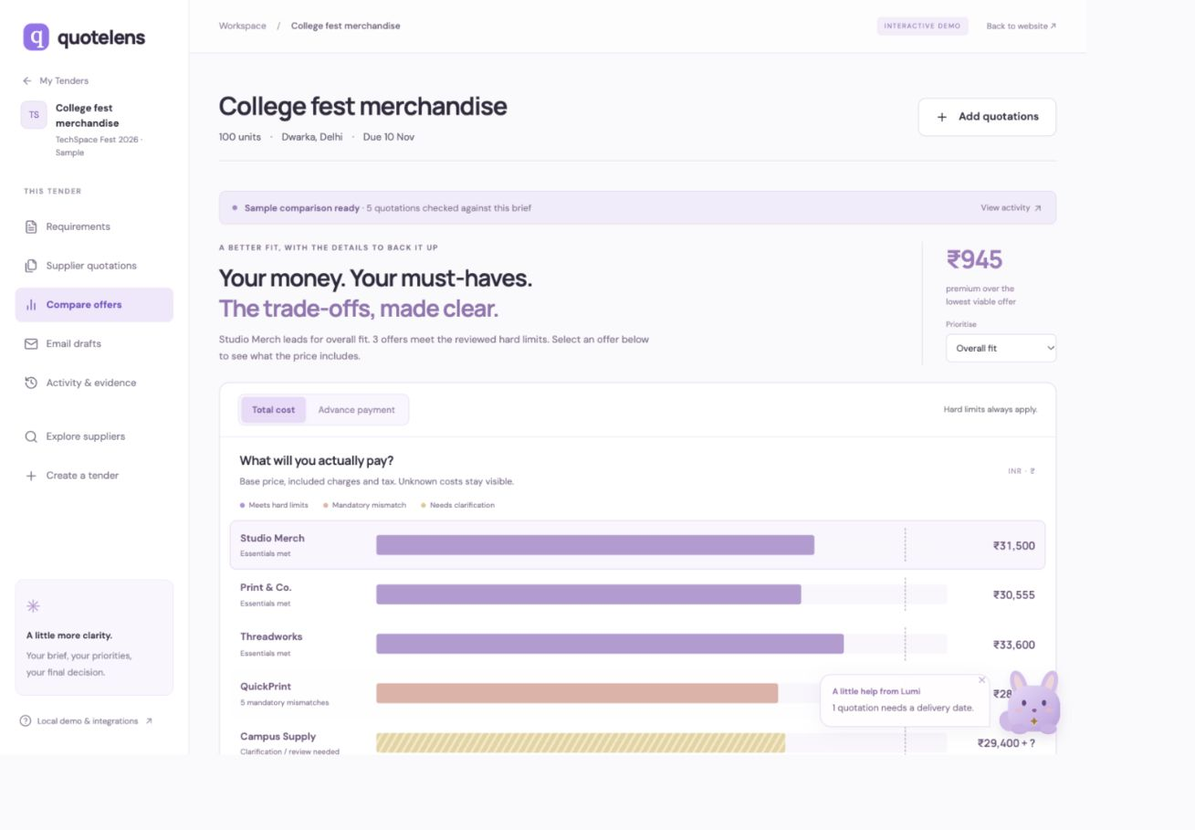
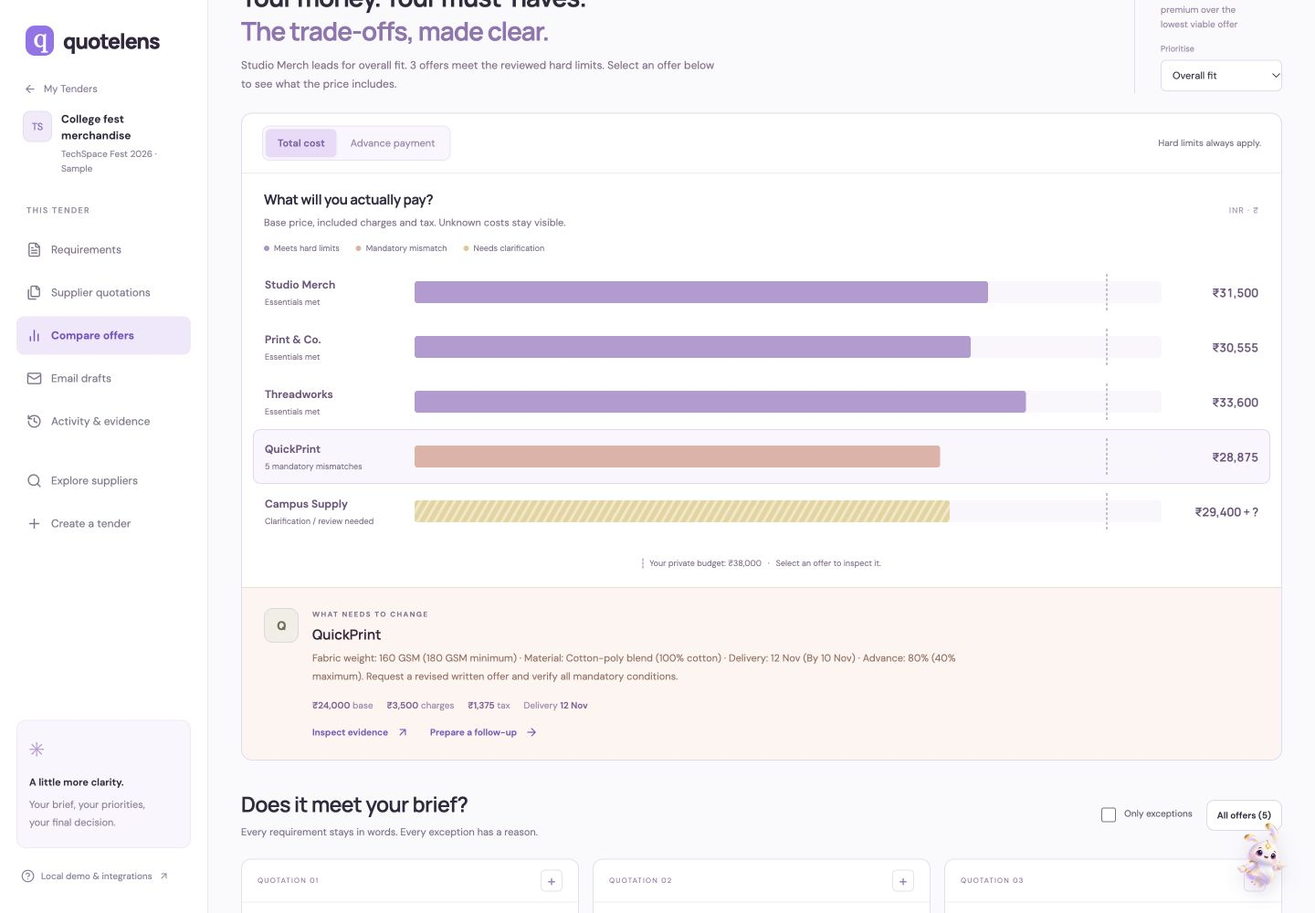
Polish QuoteLens landing, comparison, and Lumi

diff --git a/src/ClassicComparison.tsx b/src/ClassicComparison.tsx
@@ -6,4 +6,4 @@ import { Avatar, Badge, Button, Empty, Link, Status, path, useTender } from './u
 import { Evidence } from './Quotations';
 export default function ClassicComparison({id}:{id:string}){const {tender:t,update,notify}=useTender(id);const [metric,setMetric]=useState<'total'|'advance'>('total');const [selected,setSelected]=useState('studio');const [priority,setPriority]=useState<Priority>('fit');const [all,setAll]=useState(false);const [exceptions,setExceptions]=useState(false);const [evidence,setEvidence]=useState<Offer|null>(null);if(!t)return null;if(!t.offers.length)return <Empty title="Bring in your first quotation." description="Your comparison will start with the offers in this tender. Add a PDF, then review its figures and terms."><Link className="button primary" to={path(id,'quotes')}>Add a quotation <ArrowRight size={16}/></Link></Empty>;
 const ordered=ranked(t,priority),viable=ordered.filter(o=>assessment(o,t.brief).viable),chosen=t.offers.find(o=>o.id===selected)||ordered[0],a=assessment(chosen,t.brief),cheapest=ranked(t,'price').find(o=>assessment(o,t.brief).viable),best=viable[0],max=metric==='total'?Math.max(...t.offers.map(o=>cost(o).total),t.brief.privateBudget||0)*1.08:100,limit=metric==='total'?t.brief.privateBudget:t.brief.maxAdvance;const visible=all?ordered:viable.slice(0,3);const premium=best&&cheapest?cost(best).total-cost(cheapest).total:0;
-return <><div className="classic-agent-strip"><span className="classic-ready-dot"/><span><strong>{t.sample?'Sample comparison ready':'Your comparison'}</strong> · {t.offers.length} quotations checked against this brief</span><Link to={path(id,'activity')}>View activity <ArrowUpRight size={13}/></Link></div><div className="classic-decision-heading"><div><span className="eyebrow">A BETTER FIT, WITH THE DETAILS TO BACK IT UP</span><h2>Your money. Your must-haves.<br/><span>The trade-offs, made clear.</span></h2><p>{best?`${best.name} leads for ${priority==='fit'?'overall fit':priority==='price'?'lowest evaluated total':priority==='speed'?'earlier delivery':'less upfront payment'}. ${viable.length} offers meet the reviewed hard limits. Select an offer below to see what the price includes.`:'The open questions need resolving before any offer is ready to recommend.'}</p></div><div className="classic-decision-stamp"><strong>{premium>0?money(premium):String(viable.length).padStart(2,'0')}</strong><span>{premium>0?<>premium over the<br/>lowest viable offer</>:<>viable offers,<br/>with hard limits met</>}</span><label>Prioritise<select aria-label="Comparison priority" value={priority} onChange={e=>setPriority(e.target.value as Priority)}><option value="fit">Overall fit</option><option value="price">Lowest total</option><option value="speed">Earlier delivery</option><option value="cash">Less upfront</option></select></label></div></div><section className="classic-chart-panel"><div className="classic-chart-toolbar"><div className="classic-segment" role="group" aria-label="Comparison metric"><button onClick={()=>setMetric('total')} aria-pressed={metric==='total'} className={metric==='total'?'active':''}>Total cost</button><button onClick={()=>setMetric('advance')} aria-pressed={metric==='advance'} className={metric==='advance'?'active':''}>Advance payment</button></div><span className="small muted">Hard limits always apply.</span></div><div className="classic-chart-title"><div><h3>{metric==='total'?'What will you actually pay?':'How much is due upfront?'}</h3><p>{metric==='total'?'Base price, included charges and tax. Unknown costs stay visible.':'Advance percentage, with the exact rupee amount beside it.'}</p></div><span>{metric==='total'?'INR · ₹':'PERCENT · %'}</span></div><div className="classic-chart-key"><span><i/>Meets hard limits</span><span><i/>Mandatory mismatch</span><span><i/>Needs clarification</span></div><div className="classic-bar-chart" role="group" aria-label="Supplier offer comparison">{t.offers.map(o=>{const a=assessment(o,t.brief),c=cost(o),value=metric==='total'?c.total:o.advance??0;return <button key={o.id} className={`classic-bar-row ${chosen.id===o.id?'selected':''}`} aria-pressed={chosen.id===o.id} onClick={()=>setSelected(o.id)}><span className="classic-bar-label"><strong>{o.name||'Unnamed supplier'}</strong><small>{a.viable?'Essentials met':a.mismatches.length?`${a.mismatches.length} mandatory mismatches`:'Clarification / review needed'}</small></span><span className="classic-bar-space">{limit!==null&&<span className="classic-bar-limit" style={{left:`${limit/max*100}%`}}/>}<motion.span initial={false} animate={{width:`${Math.min(value/max*100,100)}%`}} transition={{duration:.25}} className={`classic-bar-fill ${a.mismatches.length?'fail':a.viable?'':'unknown'}`}/></span><span className="classic-bar-value"><strong>{metric==='total'?money(c.total)+(c.complete?'':' + ?'):o.advance===null?'Not stated':`${o.advance}%`}</strong>{metric==='advance'&&<small>{o.advance===null?'Amount unknown':money(c.advance)+(c.complete?'':' + ?')}</small>}</span></button>})}</div><div className="classic-chart-foot"><span className="classic-limit-key"/>{limit===null?'No hard limit entered':`Your ${metric==='total'?'private budget':'advance limit'}: ${metric==='total'?money(limit):`${limit}%`}`} <span>·</span> Select an offer to inspect it.</div><div className={`classic-selected-insight ${a.mismatches.length?'has-mismatch':''}`}><Avatar name={chosen.name} id={chosen.supplierId}/><div><span className="eyebrow">{a.viable?'VALUE, IN CONTEXT':'WHAT NEEDS TO CHANGE'}</span><h3>{chosen.name||'Unnamed supplier'}</h3><p>{a.mismatches.length?`${a.mismatches.filter(c=>c.label!=='Other mandatory conditions').map(c=>`${c.label}: ${c.value} (${c.requirement.replace(/\.$/,'')})`).join(' · ')}. Request a revised written offer and verify all mandatory conditions.`:!a.viable?'Confirm missing delivery or price details and finish the buyer review before treating this as a viable offer.':chosen.id===cheapest?.id?'The lowest evaluated total among viable offers. Review the accepted compromises below before deciding.':'Meets all checked hard limits. Compare the total, delivery date, advance and packaging against the other viable options.'}</p><div className="classic-insight-facts"><span><strong>{money(cost(chosen).base)}</strong> base</span><span><strong>{money(cost(chosen).extras)}</strong> {cost(chosen).complete?'charges':'known charges'}</span><span><strong>{chosen.tax===null?'Unknown':money(cost(chosen).tax)}</strong> tax</span><span>Delivery <strong>{date(chosen.date)}</strong></span></div><div className="actions"><button className="text-link" onClick={()=>setEvidence(chosen)}>Inspect evidence <ArrowUpRight size={14}/></button><Link className="text-link" to={path(id,`drafts/${chosen.id}`)}>Prepare a follow-up <ArrowRight size={14}/></Link></div></div></div></section><div className="section-title classic-checklist-heading"><div><h2>Does it meet your brief?</h2><p>Every requirement stays in words. Every exception has a reason.</p></div><div className="classic-checklist-tools"><label className="check-field"><input type="checkbox" checked={exceptions} onChange={e=>setExceptions(e.target.checked)}/>Only exceptions</label><Button variant="secondary" onClick={()=>setAll(!all)}>{all?'Top viable offers':`All offers (${t.offers.length})`}</Button></div></div><div className="classic-requirement-grid">{(visible.length?visible:ordered).map((o,i)=>{const a=assessment(o,t.brief),saved=t.shortlist.includes(o.id),checks=a.checks.filter(c=>!exceptions||c.state!=='met');return <article className={`classic-requirement-card ${a.mismatches.length?'mismatch':''}`} key={o.id}><div className="classic-company-ribbon"><span>QUOTATION {String(i+1).padStart(2,'0')}</span><button onClick={()=>{update(t=>({...t,shortlist:saved?t.shortlist.filter(x=>x!==o.id):[...t.shortlist,o.id]}));notify(saved?'Removed from shortlist.':'Added to this tender’s shortlist.');}} aria-label={`${saved?'Remove':'Add'} ${o.name} ${saved?'from':'to'} shortlist`}>{saved?<Check size={14}/>:'+'}</button></div><div className="classic-company-head"><Avatar name={o.name} id={o.supplierId}/><div><h3>{o.name||'Unnamed supplier'}</h3><Badge tone={a.viable?'sample':a.mismatches.length?'red':'amber'}>{a.viable?'Viable offer':a.mismatches.length?'Needs revision':'Needs clarification'}</Badge></div></div><div className="classic-company-context"><span>{o.business||'Company type not recorded'}</span><span>{o.workedBefore?'Worked together before':'Relationship not recorded'}</span>{o.supplierId&&<Link to={`supplier/${o.supplierId}`}>View portfolio ↗</Link>}</div>{checks.map(c=><div className="classic-requirement-check" key={c.label}><div><strong>{c.label}</strong><Status state={c.state} short/></div><p>{c.value}</p><small>{c.requirement}</small></div>)}{!checks.length&&<p className="classic-all-clear"><Check size={14}/> No exceptions for this offer.</p>}<div className="classic-card-bottom"><strong>{money(a.total.total)}{!a.total.complete?' + unknowns':''}</strong><span>{a.total.complete?'Evaluated total':'Known subtotal'}</span><Link className="button secondary" to={path(id,`drafts/${o.id}`)}>Prepare next move <ArrowUpRight size={14}/></Link></div></article>})}</div><p className="comparison-footnote">Rules check structured fields. Free-text conditions require buyer verification. Priorities never relax a mandatory limit.</p>{evidence&&<Evidence o={evidence} onClose={()=>setEvidence(null)}/>}</>}
+return <><div className="classic-agent-strip"><span className="classic-ready-dot"/><span><strong>{t.sample?'Sample comparison ready':'Your comparison'}</strong> · {t.offers.length} quotations in view · {viable.length} viable after review</span><Link to={path(id,'activity')}>View activity <ArrowUpRight size={13}/></Link></div><div className="classic-decision-heading"><div><span className="eyebrow">A BETTER FIT, WITH THE DETAILS TO BACK IT UP</span><h2>Your money. Your must-haves.<br/><span>The trade-offs, made clear.</span></h2><p>{best?`${best.name} leads for ${priority==='fit'?'overall fit':priority==='price'?'lowest evaluated total':priority==='speed'?'earlier delivery':'less upfront payment'}. ${viable.length} offers meet the reviewed hard limits. Select an offer below to see what the price includes.`:'The open questions need resolving before any offer is ready to recommend.'}</p></div><div className="classic-decision-stamp"><strong>{premium>0?money(premium):String(viable.length).padStart(2,'0')}</strong><span>{premium>0?<>premium over the<br/>lowest viable offer</>:<>viable offers,<br/>with hard limits met</>}</span><label>Prioritise<select aria-label="Comparison priority" value={priority} onChange={e=>setPriority(e.target.value as Priority)}><option value="fit">Overall fit</option><option value="price">Lowest total</option><option value="speed">Earlier delivery</option><option value="cash">Less upfront</option></select></label></div></div><section className="classic-chart-panel"><div className="classic-chart-toolbar"><div className="classic-segment" role="group" aria-label="Comparison metric"><button onClick={()=>setMetric('total')} aria-pressed={metric==='total'} className={metric==='total'?'active':''}>Total cost</button><button onClick={()=>setMetric('advance')} aria-pressed={metric==='advance'} className={metric==='advance'?'active':''}>Advance payment</button></div><span className="small muted">Hard limits always apply.</span></div><div className="classic-chart-title"><div><h3>{metric==='total'?'What will you actually pay?':'How much is due upfront?'}</h3><p>{metric==='total'?'Base price, included charges and tax. Unknown costs stay visible.':'Advance percentage, with the exact rupee amount beside it.'}</p></div><span>{metric==='total'?'INR · ₹':'PERCENT · %'}</span></div><div className="classic-chart-key"><span><i/>Meets hard limits</span><span><i/>Mandatory mismatch</span><span><i/>Needs clarification</span></div><div className="classic-bar-chart" role="group" aria-label="Supplier offer comparison">{t.offers.map(o=>{const a=assessment(o,t.brief),c=cost(o),value=metric==='total'?c.total:o.advance??0;return <button key={o.id} className={`classic-bar-row ${chosen.id===o.id?'selected':''}`} aria-pressed={chosen.id===o.id} onClick={()=>setSelected(o.id)}><span className="classic-bar-label"><strong>{o.name||'Unnamed supplier'}</strong><small>{a.viable?'Essentials met':a.mismatches.length?`${a.mismatches.length} mandatory mismatches`:'Clarification / review needed'}</small></span><span className="classic-bar-space">{limit!==null&&<span className="classic-bar-limit" style={{left:`${limit/max*100}%`}}/>}<motion.span initial={false} animate={{width:`${Math.min(value/max*100,100)}%`}} transition={{duration:.25}} className={`classic-bar-fill ${a.mismatches.length?'fail':a.viable?'':'unknown'}`}/></span><span className="classic-bar-value"><strong>{metric==='total'?money(c.total)+(c.complete?'':' + ?'):o.advance===null?'Not stated':`${o.advance}%`}</strong>{metric==='advance'&&<small>{o.advance===null?'Amount unknown':money(c.advance)+(c.complete?'':' + ?')}</small>}</span></button>})}</div><div className="classic-chart-foot"><span className="classic-limit-key"/>{limit===null?'No hard limit entered':`Your ${metric==='total'?'private budget':'advance limit'}: ${metric==='total'?money(limit):`${limit}%`}`} <span>·</span> Select an offer to inspect it.</div><div className={`classic-selected-insight ${a.mismatches.length?'has-mismatch':''}`}><Avatar name={chosen.name} id={chosen.supplierId}/><div><span className="eyebrow">{a.viable?'VALUE, IN CONTEXT':'WHAT NEEDS TO CHANGE'}</span><h3>{chosen.name||'Unnamed supplier'}</h3><p>{a.mismatches.length?`${a.mismatches.filter(c=>c.label!=='Other mandatory conditions').map(c=>`${c.label}: ${c.value} (${c.requirement.replace(/\.$/,'')})`).join(' · ')}. Request a revised written offer and verify all mandatory conditions.`:!a.viable?'Confirm missing delivery or price details and finish the buyer review before treating this as a viable offer.':chosen.id===cheapest?.id?'The lowest evaluated total among viable offers. Review the accepted compromises below before deciding.':'Meets all checked hard limits. Compare the total, delivery date, advance and packaging against the other viable options.'}</p><div className="classic-insight-facts"><span><strong>{money(cost(chosen).base)}</strong> base</span><span><strong>{money(cost(chosen).extras)}</strong> {cost(chosen).complete?'charges':'known charges'}</span><span><strong>{chosen.tax===null?'Unknown':money(cost(chosen).tax)}</strong> tax</span><span>Delivery <strong>{date(chosen.date)}</strong></span></div><div className="actions"><button className="text-link" onClick={()=>setEvidence(chosen)}>Inspect evidence <ArrowUpRight size={14}/></button><Link className="text-link" to={path(id,`drafts/${chosen.id}`)}>Prepare a follow-up <ArrowRight size={14}/></Link></div></div></div></section><div className="section-title classic-checklist-heading"><div><h2>Does it meet your brief?</h2><p>Every requirement stays in words. Every exception has a reason.</p></div><div className="classic-checklist-tools"><label className="check-field"><input type="checkbox" checked={exceptions} onChange={e=>setExceptions(e.target.checked)}/>Only exceptions</label><Button variant="secondary" onClick={()=>setAll(!all)}>{all?'Top viable offers':`All offers (${t.offers.length})`}</Button></div></div><div className="classic-requirement-grid">{(visible.length?visible:ordered).map((o,i)=>{const a=assessment(o,t.brief),saved=t.shortlist.includes(o.id),checks=a.checks.filter(c=>!exceptions||c.state!=='met');return <article className={`classic-requirement-card ${a.mismatches.length?'mismatch':''}`} key={o.id}><div className="classic-company-ribbon"><span>QUOTATION {String(i+1).padStart(2,'0')}</span><button onClick={()=>{update(t=>({...t,shortlist:saved?t.shortlist.filter(x=>x!==o.id):[...t.shortlist,o.id]}));notify(saved?'Removed from shortlist.':'Added to this tender’s shortlist.');}} aria-label={`${saved?'Remove':'Add'} ${o.name} ${saved?'from':'to'} shortlist`}>{saved?<Check size={14}/>:'+'}</button></div><div className="classic-company-head"><Avatar name={o.name} id={o.supplierId}/><div><h3>{o.name||'Unnamed supplier'}</h3><Badge tone={a.viable?'sample':a.mismatches.length?'red':'amber'}>{a.viable?'Viable offer':a.mismatches.length?'Needs revision':'Needs clarification'}</Badge></div></div><div className="classic-company-context"><span>{o.business||'Company type not recorded'}</span><span>{o.workedBefore?'Worked together before':'Relationship not recorded'}</span>{o.supplierId&&<Link to={`supplier/${o.supplierId}`}>View portfolio ↗</Link>}</div>{checks.map(c=><div className="classic-requirement-check" key={c.label}><div><strong>{c.label}</strong><Status state={c.state} short/></div><p>{c.value}</p><small>{c.requirement}</small></div>)}{!checks.length&&<p className="classic-all-clear"><Check size={14}/> No exceptions for this offer.</p>}<div className="classic-card-bottom"><strong>{money(a.total.total)}{!a.total.complete?' + unknowns':''}</strong><span>{a.total.complete?'Evaluated total':'Known subtotal'}</span><Link className="button secondary" to={path(id,`drafts/${o.id}`)}>Prepare next move <ArrowUpRight size={14}/></Link></div></article>})}</div><p className="comparison-footnote">Rules check structured fields. Free-text conditions require buyer verification. Priorities never relax a mandatory limit.</p>{evidence&&<Evidence o={evidence} onClose={()=>setEvidence(null)}/>}</>}

diff --git a/src/Lumi.tsx b/src/Lumi.tsx
@@ -3,8 +3,8 @@ import { motion, AnimatePresence } from 'motion/react';
 import { ArrowUp, ArrowRight, X, Minus, Sparkles } from 'lucide-react';
 import { assessment, cost, money, ranked, type Tender } from './domain';
 import { path, useApp } from './ui';
-export function LumiCharacter(){return <span className="classic-lumi-character" aria-hidden="true"><span className="lumi-pet"><i className="pet-ear left"/><i className="pet-ear right"/><i className="pet-tail"/><span className="pet-body"><span className="pet-face"><i className="pet-eye"/><i className="pet-eye"/><i className="pet-nose"/><i className="pet-blush left"/><i className="pet-blush right"/></span><i className="pet-paw left"/><i className="pet-paw right"/><span className="pet-badge">✦</span></span></span></span>}
+export function LumiCharacter(){return <span className="classic-lumi-character" aria-hidden="true"><img className="lumi-pet-image" src="/lumi-v3-refined.png" alt="" draggable="false"/></span>}
 function line(t?:Tender){if(!t)return 'A little perspective goes a long way.';if(!t.offers.length)return 'Your brief is ready. Let’s bring in an offer.';const unclear=t.offers.filter(o=>!o.date);if(unclear.length)return `${unclear.length} ${unclear.length===1?'quotation needs a':'quotations need'} delivery date.`;const valid=ranked(t).filter(o=>assessment(o,t.brief).viable);return valid.length?`You have ${valid.length} viable offers to consider.`:'Let’s resolve the open questions first.';}
-export default function Lumi({tender:t,route}:{tender?:Tender;route:string}){const {go}=useApp();const [open,setOpen]=useState(false);const [dismissed,setDismissed]=useState(false);const [minimal,setMinimal]=useState(false);const [question,setQuestion]=useState('');const [messages,setMessages]=useState<{role:'user'|'lumi';text:string}[]>([]);const [busy,setBusy]=useState(false);const timer=useRef<ReturnType<typeof setTimeout>|undefined>(undefined);const input=useRef<HTMLInputElement>(null);const conversation=useRef<HTMLDivElement>(null);useEffect(()=>{setMessages([]);setQuestion('');setBusy(false);clearTimeout(timer.current);},[t?.id]);useEffect(()=>()=>clearTimeout(timer.current),[]);useEffect(()=>{if(open)input.current?.focus()},[open]);useEffect(()=>{conversation.current?.scrollTo({top:conversation.current.scrollHeight,behavior:'smooth'})},[messages,busy]);function answer(q:string){if(!t)return 'Start by creating a tender, or open the sample to see five offers compared. You can also explore supplier portfolios and prepare an invitation. I’m a guided demo companion; live AI is not connected.';if(!t.offers.length)return `Your tender “${t.brief.title}” has no quotations yet. Add a supplier PDF and verify its figures. I’ll help you understand the deterministic checks once an offer is entered.`;const best=ranked(t).find(o=>assessment(o,t.brief).viable);const cheap=[...t.offers].sort((a,b)=>cost(a).total-cost(b).total)[0];const a=assessment(cheap,t.brief);if(/cheap|low|price|cost|charge/.test(q.toLowerCase()))return `${cheap.name} has the lowest known total: ${money(cost(cheap).total)}${cost(cheap).complete?'':', with unknown charges remaining'}. ${a.mismatches.length?`But ${a.mismatches.map(c=>`${c.label.toLowerCase()} (${c.value})`).join(', ')} fail the brief. It needs a revised offer.`:'Check its required scope and any acceptable compromises.'}${best&&best.id!==cheap.id?` ${best.name} is viable at ${money(cost(best).total)}.`:''}`;if(/budget/.test(q.toLowerCase()))return `Your private maximum is ${money(t.brief.privateBudget)}. It stays out of generated supplier drafts. ${t.brief.disclose?`You chose to share the range ${t.brief.range}.`:'You have not chosen to disclose a price range.'}`;if(/next|missing|deliver|ask/.test(q.toLowerCase())){const missing=t.offers.filter(o=>!assessment(o,t.brief).viable);return missing.length?`${missing.map(o=>{const a=assessment(o,t.brief);return `${o.name}: ${a.mismatches.length?'revise '+a.mismatches.map(c=>c.label.toLowerCase()).join(', '):'confirm missing details and review the offer'}`}).join('. ')}. Open a tailored follow-up in Drafts to ask for a written response.`:'Your reviewed offers meet the checks. Compare priorities, inspect evidence and confirm final scope in writing before deciding.';}return best?`${best.name} is the starting recommendation because it meets the checked hard limits with a complete reviewed cost of ${money(cost(best).total)}. Overall fit first minimises compromises, then considers price. Try “Lowest total” or “Earlier delivery” to explore alternatives. This is a transparent rule-based demo, not a live AI assessment.`:'No offer is ready to recommend. Missing details, failed hard limits, incomplete costs or unreviewed records must be resolved first. I can explain price, budget or next steps from this tender’s entered data.';}
+export default function Lumi({tender:t,route}:{tender?:Tender;route:string}){const {go}=useApp();const [open,setOpen]=useState(false);const [dismissed,setDismissed]=useState(false);const [minimal,setMinimal]=useState(false);const [question,setQuestion]=useState('');const [messages,setMessages]=useState<{role:'user'|'lumi';text:string}[]>([]);const [busy,setBusy]=useState(false);const timer=useRef<ReturnType<typeof setTimeout>|undefined>(undefined);const input=useRef<HTMLInputElement>(null);const conversation=useRef<HTMLDivElement>(null);useEffect(()=>{setMessages([]);setQuestion('');setBusy(false);clearTimeout(timer.current);},[t?.id]);useEffect(()=>{setMinimal(false);const hintTimer=setTimeout(()=>setMinimal(true),9000);return()=>clearTimeout(hintTimer)},[route]);useEffect(()=>()=>clearTimeout(timer.current),[]);useEffect(()=>{if(open)input.current?.focus()},[open]);useEffect(()=>{conversation.current?.scrollTo({top:conversation.current.scrollHeight,behavior:'smooth'})},[messages,busy]);function answer(q:string){if(!t)return 'Start by creating a tender, or open the sample to see five offers compared. You can also explore supplier portfolios and prepare an invitation. I’m a guided demo companion; live AI is not connected.';if(!t.offers.length)return `Your tender “${t.brief.title}” has no quotations yet. Add a supplier PDF and verify its figures. I’ll help you understand the deterministic checks once an offer is entered.`;const best=ranked(t).find(o=>assessment(o,t.brief).viable);const cheap=[...t.offers].sort((a,b)=>cost(a).total-cost(b).total)[0];const a=assessment(cheap,t.brief);if(/cheap|low|price|cost|charge/.test(q.toLowerCase()))return `${cheap.name} has the lowest known total: ${money(cost(cheap).total)}${cost(cheap).complete?'':', with unknown charges remaining'}. ${a.mismatches.length?`But ${a.mismatches.map(c=>`${c.label.toLowerCase()} (${c.value})`).join(', ')} fail the brief. It needs a revised offer.`:'Check its required scope and any acceptable compromises.'}${best&&best.id!==cheap.id?` ${best.name} is viable at ${money(cost(best).total)}.`:''}`;if(/budget/.test(q.toLowerCase()))return `Your private maximum is ${money(t.brief.privateBudget)}. It stays out of generated supplier drafts. ${t.brief.disclose?`You chose to share the range ${t.brief.range}.`:'You have not chosen to disclose a price range.'}`;if(/next|missing|deliver|ask/.test(q.toLowerCase())){const missing=t.offers.filter(o=>!assessment(o,t.brief).viable);return missing.length?`${missing.map(o=>{const a=assessment(o,t.brief);return `${o.name}: ${a.mismatches.length?'revise '+a.mismatches.map(c=>c.label.toLowerCase()).join(', '):'confirm missing details and review the offer'}`}).join('. ')}. Open a tailored follow-up in Drafts to ask for a written response.`:'Your reviewed offers meet the checks. Compare priorities, inspect evidence and confirm final scope in writing before deciding.';}return best?`${best.name} is the starting recommendation because it meets the checked hard limits with a complete reviewed cost of ${money(cost(best).total)}. Overall fit first minimises compromises, then considers price. Try “Lowest total” or “Earlier delivery” to explore alternatives. This is a transparent rule-based demo, not a live AI assessment.`:'No offer is ready to recommend. Missing details, failed hard limits, incomplete costs or unreviewed records must be resolved first. I can explain price, budget or next steps from this tender’s entered data.';}
 function ask(q:string){if(!q.trim()||busy)return;setMessages(m=>[...m,{role:'user',text:q.trim()}]);setQuestion('');setBusy(true);timer.current=setTimeout(()=>{setMessages(m=>[...m,{role:'lumi',text:answer(q)}]);setBusy(false)},400);}
-if(dismissed)return <button className="lumi-reopen" onClick={()=>{setDismissed(false);setOpen(true)}} aria-label="Reopen Lumi assistant"><Sparkles size={18}/></button>;return <div className={`lumi-position ${open?'is-open':''}`}><AnimatePresence mode="wait">{open?<motion.section key="panel" layoutId="lumi-shell" initial={{opacity:0,scale:.95}} animate={{opacity:1,scale:1}} exit={{opacity:0,scale:.95}} transition={{duration:.2}} className="lumi-panel" aria-label="Lumi assistant"><header><LumiCharacter/><div><strong>Lumi</strong><span>A little perspective, right here.</span></div><button className="icon-button" aria-label="Minimize Lumi" onClick={()=>setOpen(false)}><Minus size={17}/></button><button className="icon-button" aria-label="Dismiss Lumi" onClick={()=>{setOpen(false);setDismissed(true)}}><X size={17}/></button></header><div className="lumi-demo-label">GUIDED DEMO · USING THIS TENDER’S DATA</div><div className="lumi-conversation" ref={conversation}><div className="lumi-message lumi">{line(t)} {t?'What would help you make the next move?':'I can help you find your way around QuoteLens.'}</div>{messages.map((m,i)=><div className={`lumi-message ${m.role}`} key={i}>{m.text}</div>)}{busy&&<div className="lumi-message lumi" role="status">Checking the entered details<span className="loading-dots">…</span></div>}{!messages.length&&<div className="lumi-prompts">{(t?['Why this recommendation?','Why not the cheapest?','What should I ask next?']:['How do I start?']).map(q=><button onClick={()=>ask(q)} key={q}>{q}<ArrowRight size={13}/></button>)}</div>}</div>{t&&<div className="lumi-next-actions"><button onClick={()=>{go(path(t.id,'compare'));setOpen(false)}}>Comparison ↗</button><button onClick={()=>{go(path(t.id,'activity'));setOpen(false)}}>Activity & evidence ↗</button></div>}<form onSubmit={(e:FormEvent)=>{e.preventDefault();ask(question)}}><input ref={input} aria-label="Ask Lumi about this tender" placeholder="Ask about cost, fit, or next steps…" value={question} onChange={e=>setQuestion(e.target.value)} onKeyDown={e=>{if(e.key==='Escape')setOpen(false)}}/><button type="submit" aria-label="Send question to Lumi" disabled={!question.trim()||busy}><ArrowUp size={17}/></button></form></motion.section>:<motion.div key="closed" layoutId="lumi-shell" className={`lumi-closed ${minimal?'minimal':''}`} transition={{duration:.2}}><button className="lumi-trigger" onClick={()=>setOpen(true)} aria-label="Open Lumi assistant"><LumiCharacter/>{!minimal&&<span><strong>A little help from Lumi</strong><small>{line(t)}</small></span>}</button>{!minimal&&<button className="lumi-minimize" aria-label="Minimize Lumi hint" onClick={()=>setMinimal(true)}><X size={12}/></button>}</motion.div>}</AnimatePresence></div>}
+if(dismissed)return <button className="lumi-reopen" onClick={()=>{setDismissed(false);setOpen(true)}} aria-label="Reopen Lumi assistant"><Sparkles size={18}/></button>;return <div className={`lumi-position ${open?'is-open':''}`}><AnimatePresence mode="wait">{open?<motion.section key="panel" layoutId="lumi-shell" initial={{opacity:0,scale:.95}} animate={{opacity:1,scale:1}} exit={{opacity:0,scale:.95}} transition={{duration:.2}} className="lumi-panel" aria-label="Lumi assistant"><header><LumiCharacter/><div><strong>Lumi</strong><span>A little perspective, right here.</span></div><button className="icon-button" aria-label="Minimize Lumi" onClick={()=>setOpen(false)}><Minus size={17}/></button><button className="icon-button" aria-label="Dismiss Lumi" onClick={()=>{setOpen(false);setDismissed(true)}}><X size={17}/></button></header><div className="lumi-demo-label">GUIDED DEMO · USING THIS TENDER’S DATA</div><div className="lumi-conversation" ref={conversation}><div className="lumi-message lumi">{line(t)} {t?'What would help you make the next move?':'I can help you find your way around QuoteLens.'}</div>{messages.map((m,i)=><div className={`lumi-message ${m.role}`} key={i}>{m.text}</div>)}{busy&&<div className="lumi-message lumi" role="status">Checking the entered details<span className="loading-dots">…</span></div>}{!messages.length&&<div className="lumi-prompts">{(t?['Why this recommendation?','Why not the cheapest?','What should I ask next?']:['How do I start?']).map(q=><button onClick={()=>ask(q)} key={q}>{q}<ArrowRight size={13}/></button>)}</div>}</div>{t&&<div className="lumi-next-actions"><button onClick={()=>{go(path(t.id,'compare'));setOpen(false)}}>Comparison ↗</button><button onClick={()=>{go(path(t.id,'activity'));setOpen(false)}}>Activity & evidence ↗</button></div>}<form onSubmit={(e:FormEvent)=>{e.preventDefault();ask(question)}}><input ref={input} aria-label="Ask Lumi about this tender" placeholder="Ask about cost, fit, or next steps…" value={question} onChange={e=>setQuestion(e.target.value)} onKeyDown={e=>{if(e.key==='Escape')setOpen(false)}}/><button type="submit" aria-label="Send question to Lumi" disabled={!question.trim()||busy}><ArrowUp size={17}/></button></form></motion.section>:<motion.div key="closed" layoutId="lumi-shell" className={`lumi-closed ${minimal?'minimal':''}`} transition={{duration:.2}}><button className="lumi-trigger" onClick={()=>setOpen(true)} aria-label="Open Lumi assistant" title={line(t)}><LumiCharacter/>{!minimal&&<span><strong>A little help from Lumi</strong><small>{line(t)}</small></span>}</button>{!minimal&&<button className="lumi-minimize" aria-label="Minimize Lumi hint" onClick={()=>setMinimal(true)}><X size={12}/></button>}</motion.div>}</AnimatePresence></div>}

diff --git a/src/classic-landing.html b/src/classic-landing.html
@@ -1,6 +1,6 @@
 <header class="site-header wrap"><a class="brand" href="#/"><span class="brand-mark">q</span>quotelens</a><nav aria-label="Main navigation"><a href="#product">The product</a><a href="#teams">Who it's for</a><a href="#/suppliers" class="nav-discover">Explore suppliers ✦</a><a href="#how">How it works</a></nav><a class="button small primary" href="#/tenders">Open workspace <span>↗</span></a></header>
 <main><section class="hero wrap"><div class="hero-copy"><div class="eyebrow"><span class="dot"></span> A CLEARER WAY TO BUY</div><h1>Good decisions.<br><span class="lavender-text">Great quotations<span class="gold-period">.</span></span></h1><p>The right offer is more than a price.<br>Bring your requirements and quotations together.<br>Find your best fit. Know what to ask next.</p><div class="hero-actions"><a class="button primary" href="#/tenders">Compare quotations <span>↗</span></a><a class="text-link" href="#/suppliers">Explore suppliers <span>→</span></a></div><div class="hero-note"><span class="tiny-check">✓</span> Your brief. Your priorities. Your final call.</div></div>
-<div class="hero-scene" aria-label="Illustrative quotation comparison: five offers become three shortlisted suppliers"><div class="orbit orbit-one"></div><div class="orbit orbit-two"></div><div class="floating-note"><span class="spark">✦</span> Your next great partnership starts here.</div><div class="paper paper-back"><span class="pdf-tag">PDF</span><strong>Supplier quotation</strong><span class="paper-line"></span><span class="paper-line short"></span></div><div class="decision-preview"><div class="preview-top"><span class="mini-mark">q</span><span>Fest merchandise</span><span class="preview-menu">•••</span></div><div class="preview-heading"><div><span class="overline">YOUR SHORTLIST</span><h2>The good fits, together.</h2></div><span class="count-circle">3</span></div><div class="preview-offer selected"><span class="supplier-icon purple">S</span><div><strong>Studio Merch</strong><small>All essentials covered</small></div><div class="preview-price">₹31,500<small>Best overall fit</small></div></div><div class="preview-offer"><span class="supplier-icon peach">P</span><div><strong>Print & Co.</strong><small>Best complete price</small></div><div class="preview-price">₹30,555<small>One trade-off</small></div></div><div class="preview-offer"><span class="supplier-icon blue">T</span><div><strong>Threadworks</strong><small>Fastest delivery</small></div><div class="preview-price">₹33,600<small>Within budget</small></div></div><div class="preview-bottom"><span><span class="dot"></span> 5 offers compared</span><a href="#/tender/fest-2026/compare">View comparison ↗</a></div></div><div class="floating-draft"><div class="envelope-icon">↗</div><div><strong>Your next move, ready.</strong><small>Negotiation draft prepared</small></div><span class="tiny-check">✓</span></div><span class="scene-caption">ILLUSTRATIVE PRODUCT PREVIEW</span></div></section>
+<div class="hero-scene" aria-label="Illustrative quotation comparison: five offers become three shortlisted suppliers"><div class="orbit orbit-one"></div><div class="orbit orbit-two"></div><div class="floating-note"><span class="spark">✦</span> Your next great partnership starts here.</div><div class="paper paper-back"><span class="pdf-tag">PDF</span><strong>Supplier quotation</strong><span class="paper-line"></span><span class="paper-line short"></span></div><div class="decision-preview"><div class="preview-top"><span class="mini-mark">q</span><span>Fest merchandise</span><span class="preview-menu">•••</span></div><div class="preview-heading"><div><span class="overline">YOUR SHORTLIST</span><h2>The good fits, together.</h2></div><span class="count-circle">3</span></div><div class="preview-offer selected"><span class="supplier-icon purple">S</span><div><strong>Studio Merch</strong><small>All essentials covered</small></div><div class="preview-price">₹31,500<small>Best overall fit</small></div></div><div class="preview-offer"><span class="supplier-icon peach">P</span><div><strong>Print & Co.</strong><small>Best complete price</small></div><div class="preview-price">₹30,555<small>One trade-off</small></div></div><div class="preview-offer"><span class="supplier-icon blue">T</span><div><strong>Threadworks</strong><small>Fastest delivery</small></div><div class="preview-price">₹33,600<small>Within budget</small></div></div><div class="preview-alert"><span class="preview-alert-mark">!</span><span><strong>QuickPrint · ₹28,875</strong><small>Lowest price, but 160 GSM and delivery after the deadline.</small></span></div><div class="preview-bottom"><span><span class="dot"></span> 5 quotations in view</span><a href="#/tender/fest-2026/compare">View comparison ↗</a></div></div><div class="floating-draft"><div class="envelope-icon">↗</div><div><strong>Your next move, ready.</strong><small>Negotiation draft prepared</small></div><span class="tiny-check">✓</span></div><span class="scene-caption">ILLUSTRATIVE PRODUCT PREVIEW</span></div></section>
 <section class="audience-strip wrap" id="teams"><span>BIG PLANS.<br>BETTER BUYING.</span><div>Office teams</div><span class="star-divider">✳</span><div>Residential societies</div><span class="star-divider">✳</span><div>Event agencies</div><span class="star-divider">✳</span><div>College fests</div></section>
 <section class="two-paths wrap" aria-label="Two ways to use QuoteLens"><div class="two-paths-heading"><span class="eyebrow">TWO SIDES OF A GREAT DECISION</span><h2>Find the right offer.<br><span>Find the right people.</span></h2></div><div class="two-paths-grid"><article class="path-tender"><span class="path-index">01 / TENDER WORKSPACE</span><div class="path-icon">▤</div><h3>Compare the offers you have.</h3><p>Set your requirements, bring in quotations, see the trade-offs and prepare the next conversation.</p><a href="#/tenders">Open My Tenders ↗</a></article><article class="path-supplier"><span class="path-index">02 / SUPPLIER DISCOVERY</span><div class="path-icon">✳</div><h3>Meet the companies who can deliver.</h3><p>Browse supplier portfolios, past projects and client remarks. Share your brief and invite a quotation.</p><div class="path-people"><span>Sm.</span><span>f/f</span><span>ww.</span><small>Illustrative profiles</small></div><a href="#/suppliers">Explore suppliers ↗</a></article></div></section><section class="product-section wrap" id="product"><div class="section-title"><div><span class="eyebrow">LESS BACK-AND-FORTH. MORE PERSPECTIVE.</span><h2>From a pile of PDFs<br>to a point of view.</h2></div><p>A shared place for what you need,<br>what suppliers offer, and what comes next.</p></div><div class="feature-grid"><article class="feature feature-brief"><span class="feature-number">01 / THE BRIEF</span><h3>Start with what matters.</h3><p>Must-haves, nice-to-haves, and room to move.<br>Your priorities set the direction.</p><div class="requirement-demo"><div><span>180 GSM cotton</span><span class="chip violet">Must have</span></div><div><span>Individual packaging</span><span class="chip neutral">Flexible</span></div><div><span>₹28,000 – ₹35,000</span><span class="chip green">Your range</span></div></div></article><article class="feature feature-compare"><span class="feature-number">02 / THE COMPARISON</span><h3>See the whole offer.</h3><p>Costs, quality, timelines, and the small print.<br>Compared against the same requirements.</p><div class="mini-matrix"><div><span>What matters</span><b>Studio</b><b>Print & Co.</b></div><div><span>Specifications</span><b class="green-text">✓</b><b class="green-text">✓</b></div><div><span>Sample included</span><b class="green-text">✓</b><b class="amber-text">Paid · included</b></div><div><span>Complete total</span><b>₹31,500</b><b>₹30,555</b></div></div></article></div></section>
 <section class="how-section wrap" id="how"><div class="how-intro"><span class="eyebrow">A SMALLER PATH TO A BETTER CHOICE</span><h2>You bring the context.<br>We bring the clarity.</h2><a class="text-link" href="#/new">Build your first brief →</a></div><div class="how-list"><article><span>01</span><div><h3>Tell us what you need.</h3><p>Outline your tender, budget, essentials, and compromises.</p></div></article><article><span>02</span><div><h3>Bring the quotations.</h3><p>Add supplier PDFs and contact details in one place.</p></div></article><article><span>03</span><div><h3>Compare. Shortlist. Negotiate.</h3><p>Review the strongest three and draft the right follow-up.</p></div></article></div></section>

diff --git a/src/classic-final.css b/src/classic-final.css
@@ -18,3 +18,29 @@ body{background:var(--paper)}em{font-family:inherit;font-style:normal;font-weigh
 @media(max-width:900px){.classic-site .hero{grid-template-columns:minmax(0,1fr)}.classic-site .hero-scene{width:100%;max-width:490px;overflow:clip}}
 @media(max-width:600px){.classic-site .hero h1{font-size:38px;letter-spacing:-1.9px;line-height:1.14}.classic-site .hero-copy>p{font-size:13px}.classic-site .hero-copy>p br{display:none}.classic-site .hero-scene{padding:35px 5px;min-height:390px}.classic-site .decision-preview{width:calc(100% - 24px);min-width:0;flex-shrink:1}.classic-site .hero-actions{margin-top:25px}.classic-site .preview-offer{min-width:0}.classic-site .closing{overflow:hidden}.classic-site .closing h2{position:relative;z-index:1}}
 @media(max-width:600px){.classic-site .hero-copy>p br{display:initial}}
+/* The presentation's Lumi is now the companion and the assistant. */
+.classic-lumi-character{display:block;position:relative;flex:0 0 auto;width:96px;height:104px;overflow:visible}
+.lumi-pet-image{display:block;width:100%;height:100%;object-fit:contain;filter:drop-shadow(0 9px 9px #56398124);animation:lumi-image-float 5s ease-in-out infinite;user-select:none}
+.lumi-trigger{min-height:103px;gap:4px}
+.lumi-trigger>span:last-child:not(.classic-lumi-character){max-width:214px;min-height:64px;display:flex;flex-direction:column;justify-content:center}
+.lumi-closed{max-width:324px}
+.lumi-closed.minimal .lumi-trigger{min-height:71px}
+.lumi-closed.minimal .classic-lumi-character{width:72px;height:78px}
+.lumi-panel>header{min-height:75px}
+.lumi-panel>header .classic-lumi-character{width:58px;height:60px;overflow:visible}
+.lumi-panel>header .lumi-pet-image{animation:none;filter:drop-shadow(0 3px 4px #56398120)}
+.lumi-minimize{right:105px;top:16px}
+@keyframes lumi-image-float{0%,100%{transform:translateY(0) rotate(-1deg)}50%{transform:translateY(-3px) rotate(1deg)}}
+@media(max-width:800px){.lumi-closed .classic-lumi-character{width:78px;height:86px}.lumi-closed.minimal .classic-lumi-character{width:63px;height:69px}.lumi-trigger{min-height:83px}.lumi-minimize{right:85px;top:10px}}
+@media(max-width:560px){.lumi-closed .classic-lumi-character{width:69px;height:77px}.lumi-closed.minimal .classic-lumi-character{width:59px;height:66px}.lumi-trigger{min-height:75px}.lumi-closed.minimal .lumi-trigger{min-height:60px}.lumi-minimize{right:73px;top:9px}.lumi-position{right:9px;bottom:8px}}
+@media(prefers-reduced-motion:reduce){.lumi-pet-image{animation:none!important}}
+/* A concrete exception alongside the shortlisted offers. */
+.classic-site .preview-alert{display:flex;align-items:center;gap:9px;margin:14px 0 0;padding:10px 11px;border:1px solid #f0ddd6;border-radius:8px;background:#fff8f5;transform:rotate(3deg)}
+.classic-site .preview-alert-mark{width:19px;height:19px;border-radius:50%;display:grid;place-items:center;flex:0 0 auto;background:#f2ddd4;color:#a6614c;font-size:11px;font-weight:700}
+.classic-site .preview-alert strong{display:block;font-size:10px;color:#784e49;letter-spacing:0}
+.classic-site .preview-alert small{display:block;color:#9c7972;font-size:8px;margin-top:3px;line-height:1.5}
+.classic-site .preview-bottom{padding-top:13px}
+@media(max-width:600px){.classic-site .preview-alert{margin-top:11px;padding:8px}.classic-site .preview-alert strong{font-size:9px}.classic-site .preview-alert small{font-size:8px}}
+@media(min-width:601px){.classic-site .preview-alert{max-width:235px;margin-left:0}}
+.classic-site .preview-alert{max-width:235px}
+@media(min-width:801px){.classic-bar-label strong{font-size:13px}.classic-bar-label small{font-size:10px}.classic-bar-value strong{font-size:14px}.classic-chart-key>span,.classic-chart-foot{font-size:10px}.classic-selected-insight p{font-size:12px}.classic-insight-facts{font-size:11px}.classic-requirement-check strong{font-size:11px}.classic-requirement-check p{font-size:12px}.classic-company-context{font-size:10px}}

diff --git a/dist/index.html b/dist/index.html
@@ -1,3 +1,3 @@
-<!doctype html><html lang="en"><head><meta charset="UTF-8"/><meta name="viewport" content="width=device-width, initial-scale=1"/><meta name="theme-color" content="#144e55"/><meta name="description" content="See what every quotation really offers. Compare cost, requirements and trade-offs. Discover the suppliers who fit your brief."/><title>QuoteLens — See the whole offer.</title><link rel="icon" type="image/svg+xml" href="/favicon.svg"/>  <script type="module" crossorigin src="/assets/index-CCbeRjF2.js"></script>
-  <link rel="stylesheet" crossorigin href="/assets/index-BdE1exCE.css">
+<!doctype html><html lang="en"><head><meta charset="UTF-8"/><meta name="viewport" content="width=device-width, initial-scale=1"/><meta name="theme-color" content="#144e55"/><meta name="description" content="See what every quotation really offers. Compare cost, requirements and trade-offs. Discover the suppliers who fit your brief."/><title>QuoteLens — See the whole offer.</title><link rel="icon" type="image/svg+xml" href="/favicon.svg"/>  <script type="module" crossorigin src="/assets/index-B0FaQzGD.js"></script>
+  <link rel="stylesheet" crossorigin href="/assets/index-DInqBC2O.css">
 </head><body><div id="root"></div></body></html>

diff --git a/README.md b/README.md
@@ -8,7 +8,7 @@ A complete browser-local procurement experience, rebuilt with React, TypeScript,
 - [Technology boxes and honest implementation status](docs/TECH_STACK.md)
 - [Project handoff and folder map](docs/SUBMISSION.md)
 - [Refined Lumi cutout](public/lumi-v3-refined.png) for the presentation (transparent PNG)
-- [Working comparison preview](docs/comparison-preview.png)
+- [Landing preview](docs/landing-preview.png) and [working comparison preview](docs/comparison-preview.png)
 
 ## Run
 
@@ -20,7 +20,7 @@ npm run build
 npm run preview
 ```
 
-The active source lives in `quotelens-rebuild/`. The earlier implementation remains in the sibling `quotelens-studio/` directory. The existing Sites project identity and owner-only access are preserved.
+This repository is the complete working application. The existing Sites project identity and owner-only access are preserved.
 
 ## Walkthrough
 

diff --git a/docs/SUBMISSION.md b/docs/SUBMISSION.md
@@ -7,7 +7,7 @@ The complete working prototype is the repository root (`quotelens-rebuild/`). Us
 - `src/` — product screens, local storage and decision logic.
 - `public/lumi-v3-refined.png` — transparent Lumi cutout for slides and later website integration.
 - `docs/lumi-pitch-reference.png` — the supplied V3 presentation reference.
-- `docs/comparison-preview.png` — working comparison capture.
+- `docs/landing-preview.png` and `docs/comparison-preview.png` — working desktop captures.
 - `docs/TECH_STACK.md` — pitch-ready stack and current/planned status.
 - `tests/domain.test.ts` — price and mandatory-rule tests.
 - `README.md` — setup, walkthrough, limits and validation.
